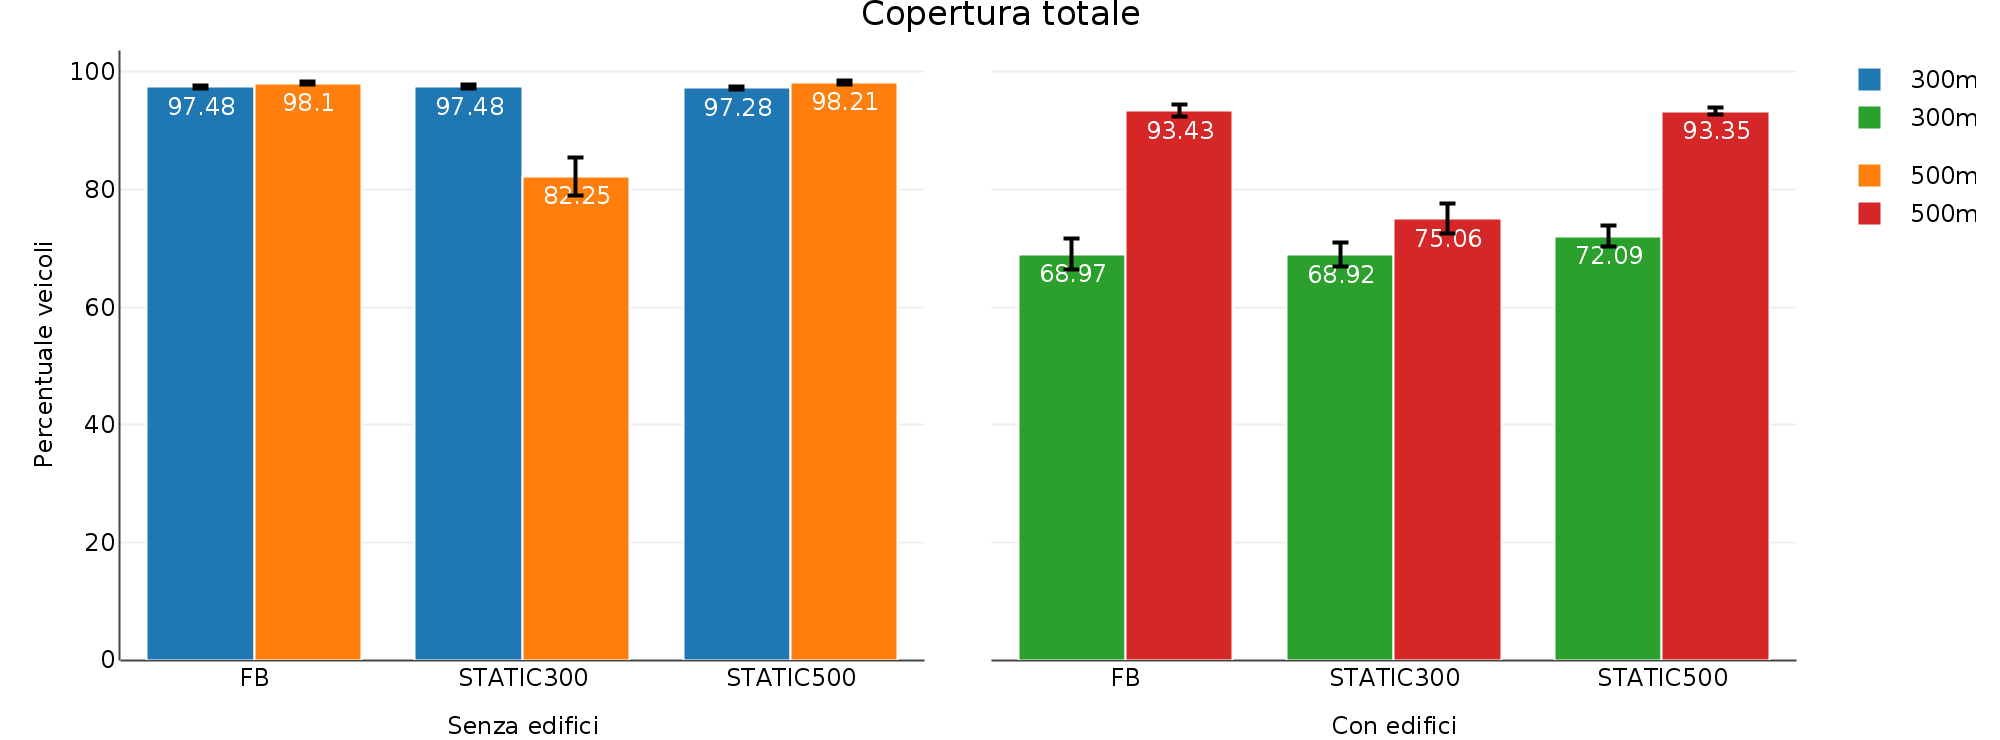
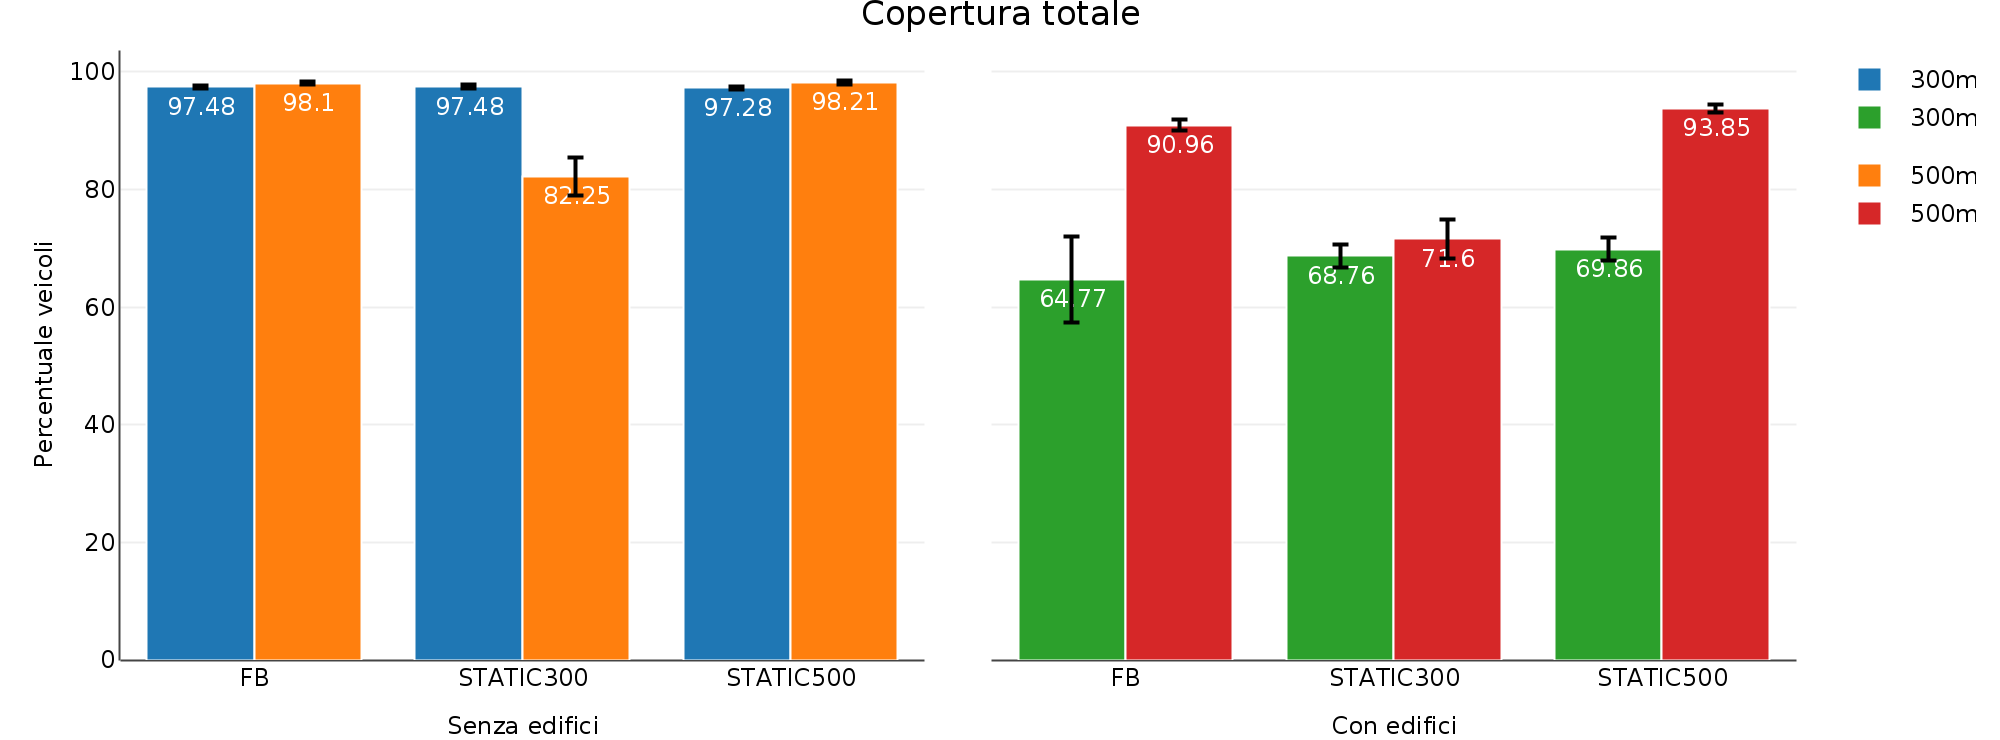
add risultati LA

diff --git a/doc/thesis/chapters/simulazioni.tex b/doc/thesis/chapters/simulazioni.tex
@@ -196,6 +196,54 @@ Questo perché nella configurazione a griglia lungo il perimetro esterno erano s
 mentre ora il limite ``quadratico'' dell'area è ideale (non tutte le strade finisco esattamente sul bordo della mappa).
 %
 \subsection{Los Angeles}\label{subsec:risultati-la}
+A differenza del caso precente, quando si va a considerare l'effetto dell'ombreggiatura in questo scenario
+si notano dei maggiori cambiamenti.
+In primo luogo, come si può vedere dalla \figurename~\ref{fig:risultati-la-copertura},
+si nota una diminuzione della copertura dei veicoli, più marcata con raggio trasmissivo $300$m.
+Nelle simulazioni, infatti, le due diverse distanze massime raggiungibili dal segnale,
+$300$ e $500$ metri senza ostruzioni sono state implementate tramite una diversa potenza in fase di trasmissione.
+Un sengale più potente è, naturalmente, in grado di ``superare'' un edificio rispetto a un sengale con meno potenza.
+Inoltre, avendo una portata maggiore potrebbe raggiungere altri elementi in ricezione e coprire quindi ulteriori veicoli e/o aree.
+
+Da notare è il cambio di tendenza nel caso del protocollo \statica{}:
+in presenza di edifici si ha una copertura maggiore con raggio trasmissivo di $500$m.
+Il motivo potrebbe essere che l'effetto dell'ombreggiatura influisce maggiormente rispetto
+allo non stimare correttamente il mezzo fisico.
+
+Per quanto riguarda il numero medio di salti necessari a raggiungere i veicoli sulla circonferenza,
+\figurename~\ref{fig:risultati-la-salti},
+% TODO: contorllare che sia così anceh avendo nuovi dati
+si ha un incremento del $36,5\%$ nel caso di raggio trasmissivo $300$m mentre solo del $5\%$ nella controparte.
+Inoltre si può osservare come il protocollo FB abbia prestazioni migiori delle alternative statiche,
+di circa il $10\%$ con $300$m e del $23\%$ con $500$m. % ha senso confrontarli così?
+
+Considerando il numero di messaggi di inoltro che vengono scambiati rete (\figurename~\ref{fig:risultati-la-messaggi}),
+rimane anomalo il caso \statica{}-$500$m, dove si ha un valore inferiore rispetto agli altri protocolli,
+anche se rimane coerente nel considerare l'effetto ombreggiatura (rispetto allo scenario senza).
+Mediamente, i messaggi inviati nel caso $300$m subiscono un incremento del $194,5\%$ e del $179,4\%$
+con $500$m.
+Un andamento inverso caratterizza, invece, il numero totale di messaggi ricevuti:
+se si considera un raggio trasmissivo di $500$m si ha un aumento del $43\%$ in presenza di edifici,
+mentre nella controparte a $300$m un calo del $32,2\%$.
+Ciò significa che, nel primo caso, gli ostacoli considerati causano la perdita di una grossa quantità di messaggi
+mentre così non avviene nel secondo.
+La causa di questo fenomeno potrebbe trovarsi nella topologia stradale presente in questo specifico scenario.
+Gli isolati più piccoli hanno una dimensioni di circa $50$x$175$ metri mentre quelli più grandi
+(visibili nella mappa in basso a destra) sono lunghi circa $400$ metri.
+Il raggio trasmissivo minore non riesce a superarli mentre è così per quello maggiore che raggiunge
+di conseguenza anche i veicoli posizionati sugli e nelle vicinanze degli incroci.
+Considerando gli isolati più piccoli, con $300$m si copre (al massimo) due incroci mentre se ne coprono
+fino a tre se si hanno $500$m.
+Inoltre, potrebbe essere che il segnale generato nel caso di raggio trasmissivo minore
+non sia sufficiente a penetrare gli edifici presenti all'interno di un isolato (in larghezza),
+mentre è abbastanza forte quello con raggio trasmissivo maggiore.
+% i grafici su potenza-sengale-isolati-la lo confermeranno?
+
+Anche in questo scenario, il protocollo FB si comporta secondo le aspettative,
+garantendo una copertura migliore % TODO da confermare dopo con i nuovi dati
+rispetto ai protocolli con stima fissa,
+un numero di salti inferiore e quindi una consegna del messaggio più veloce
+e in generale un numero inferiore di messaggi inoltrati.
 %
 \begin{figure}[htbp]
 	\centering
